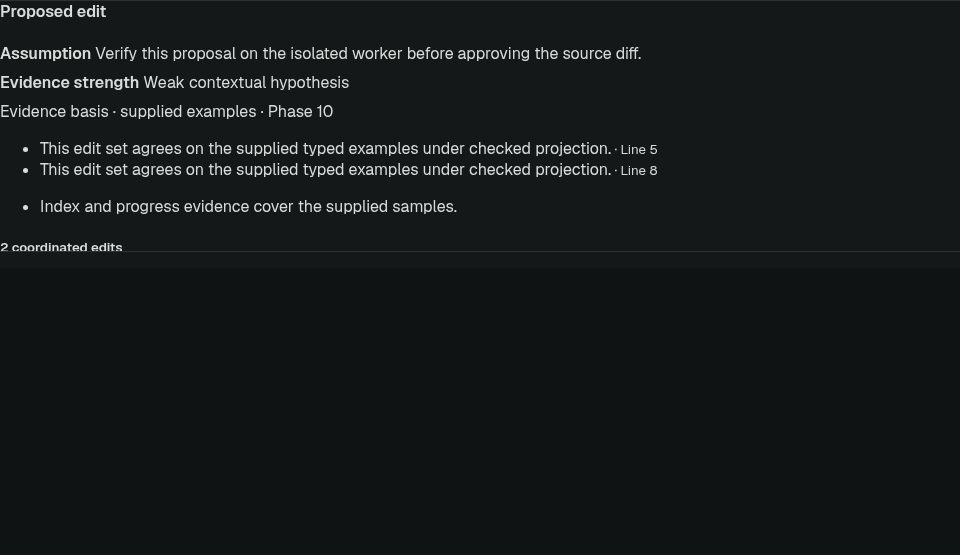
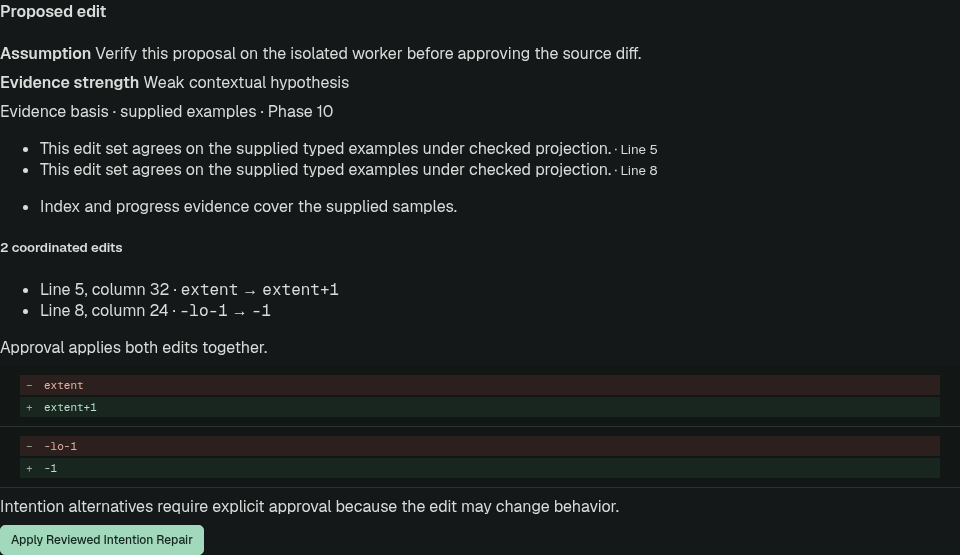
Show complete search evidence and atomic diffs in the workbench

diff --git a/frontend/src/styles.css b/frontend/src/styles.css
@@ -1106,7 +1106,7 @@ summary code {
 .live-behavior li { margin-block: .35rem; overflow-wrap: anywhere; }
 .live-behavior li button { margin-inline-start: .55rem; }
 .live-behavior .diff-before, .live-behavior .diff-after { padding: .65rem; }
-.inspector-body:has(.intention-panel:is([data-engine="5"], [data-engine="55"], [data-engine="6"], [data-engine="65"], [data-engine="7"], [data-engine="75"], [data-engine="8"]) [aria-label="Intention results"]) { height: auto; }
+.inspector-body:has(.intention-panel:is([data-engine="5"], [data-engine="55"], [data-engine="6"], [data-engine="65"], [data-engine="7"], [data-engine="75"], [data-engine="8"], [data-engine="10"]) [aria-label="Intention results"]) { height: auto; }
 
 .guided-evidence { border: 1px solid var(--border); border-radius: 6px; padding: .65rem .8rem; margin: .75rem 0; }
 .guided-evidence [role="alert"] { font-weight: 700; }

diff --git a/frontend/tests/phase10.spec.ts b/frontend/tests/phase10.spec.ts
@@ -117,4 +117,5 @@ test("Phase 10 shows a sampled traversal origin derived from local cells", async
   await evidence.getByText("Array traversal origins",{exact:true}).click();
   await expect(evidence).toContainText("start at low");
   await expect(evidence).toContainText("Input 2 · first -2");
+  await capture(evidence,"derived-traversal-origin");
 });

diff --git a/docs/PHASE_10_FINAL_REVIEW.md b/docs/PHASE_10_FINAL_REVIEW.md
@@ -18,7 +18,7 @@ The three unrecovered independent defects expose missing saturation semantics, r
 - Baseline and post-merge CI for Phase 9.5. [Baseline](phase10_baseline.md)
 - Reproduced the applicable historical offline benchmarks and all historical isolated replays, including the isolation enforcement benchmark.
 - Passed 825 Python tests with the Clang and restricted-worker paths enabled. The compiler suite passed 220/220 cases, and the keyboard/array verification and stress commands exited successfully.
-- Exercised explicit atomic approval, stale-preview invalidation and original runtime classification in Chromium. [Screenshots and workbench coverage](phase10_workbench.md)
+- Chromium passed 56 cases with one hosted-mode skip in the full isolated run. A focused rerun passed all four Phase 10 scenarios, including atomic approval, stale-preview invalidation, original runtime classification and derived traversal origins. [Screenshots and workbench coverage](phase10_workbench.md)
 - Preserved the private worker contract and disabled public execution. [Security](phase10_security.md)
 
 ## Evaluation and implementation

diff --git a/docs/phase10_workbench.md b/docs/phase10_workbench.md
@@ -9,3 +9,5 @@ The Chromium scenarios exercise an invalid recursive access, manual atomic appro
 ![Atomic handoff review](../audit/phase10/atomic-expanding-handoff.png)
 
 ![Isolated runtime failure](../audit/phase10/isolated-runtime-failure.png)
+
+![Sampled traversal origin](../audit/phase10/derived-traversal-origin.png)
